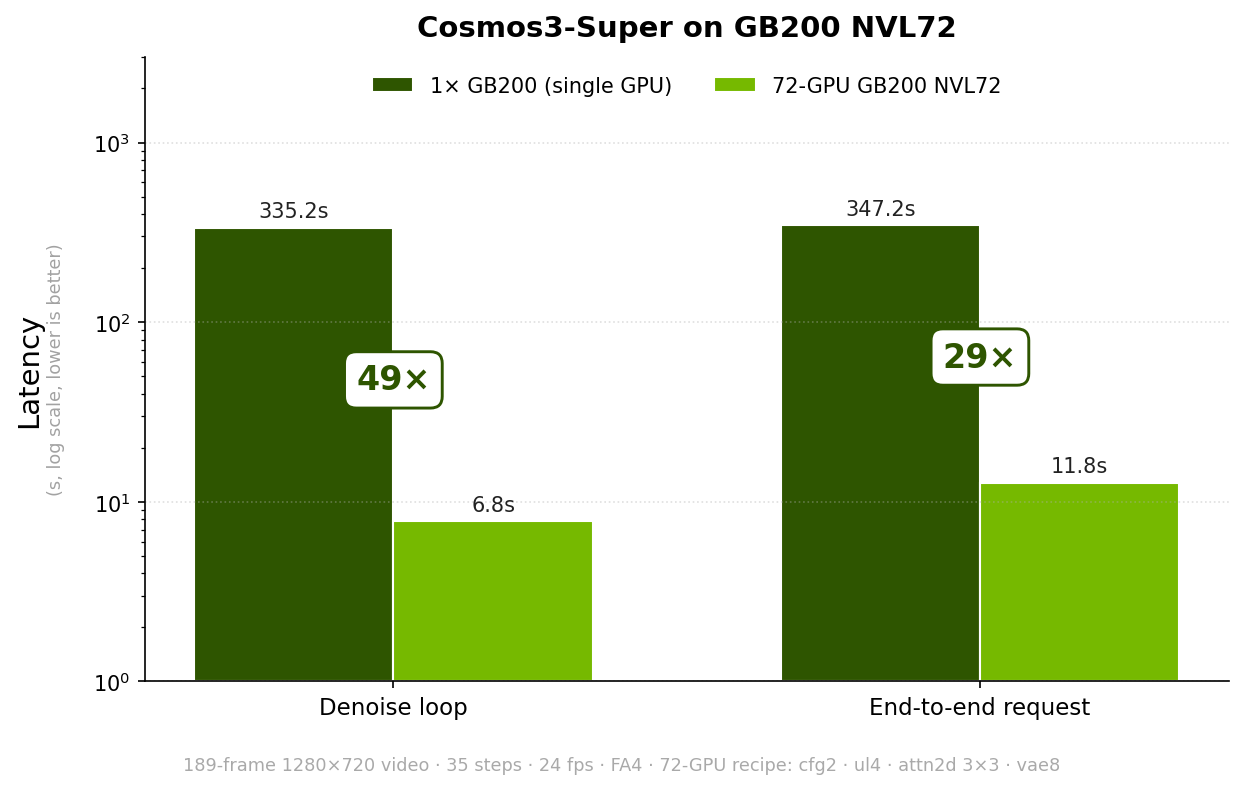
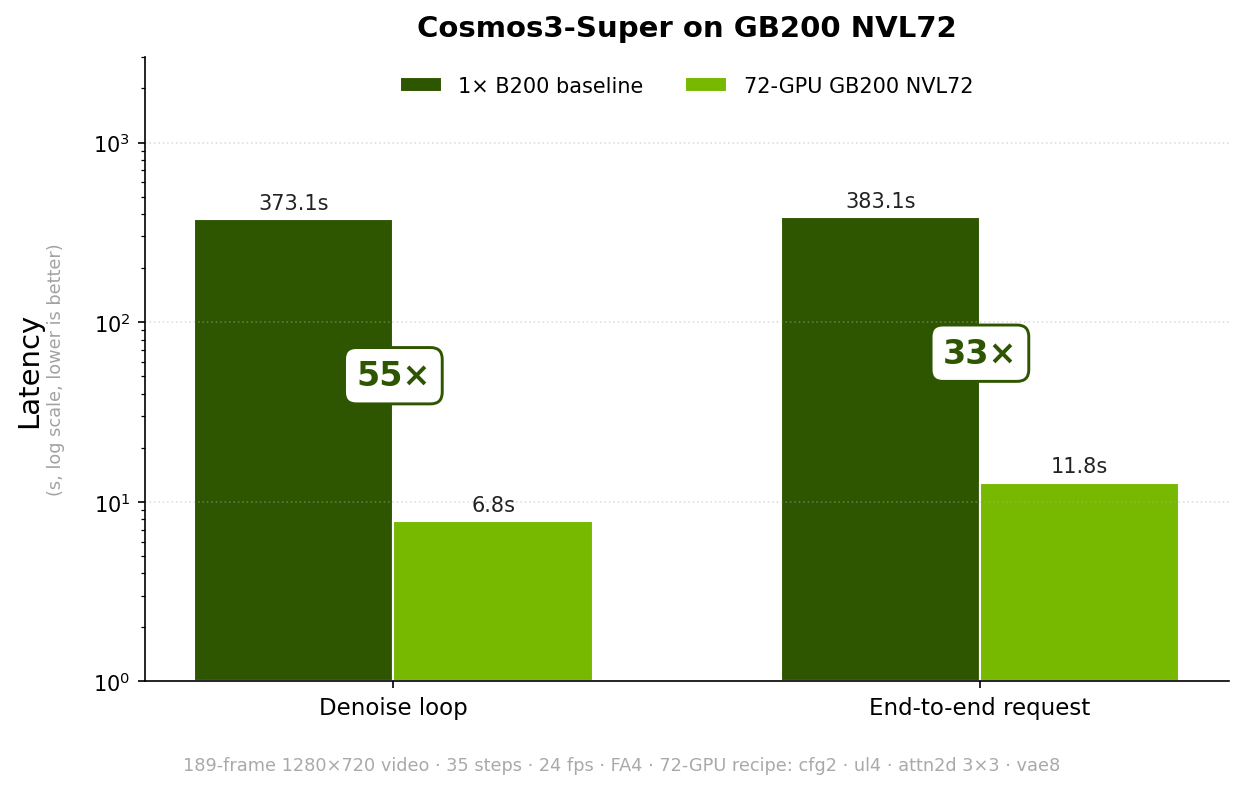
use 1 b200 baseline for cosmos3 + fix

diff --git a/docs/source/blogs/tech_blog/blog25_Scaling_Video_Generation_Across_NVL72_Rack_with_TensorRT-LLM.md b/docs/source/blogs/tech_blog/blog25_Scaling_Video_Generation_Across_NVL72_Rack_with_TensorRT-LLM.md
@@ -10,14 +10,14 @@ This post describes how the `VisualGen` runtime in TensorRT-LLM scales the DiT d
 
 On Wan 2.2 T2V-A14B (a 5-second 1280×720 video, 40 steps), the `CFG=2 × Ulysses=4 × Attention2D 3×3` recipe shrinks the DiT denoising loop by **~53×** going from a single NVIDIA B200 to a full GB200 NVL72 rack - which in turn drives a **~41× end-to-end** speedup. End-to-end trails the denoise speedup because of a fixed tail that stays constant as the DiT is sharded wider, setting the floor by Amdahl's law.
 
-The same runtime carries over unchanged to Cosmos3-Super (a 64B Mixture-of-Transformers generating a 189-frame 1280×720 clip), where the identical `CFG=2 × Ulysses=4 × Attention2D 3×3` recipe delivers **~49× on the denoise loop (~29× end-to-end)** on the full GB200 NVL72 rack.
+The same runtime carries over unchanged to Cosmos3-Super (a 64B Mixture-of-Transformers generating a 189-frame 1280×720 clip), where the identical `CFG=2 × Ulysses=4 × Attention2D 3×3` recipe delivers **~55× on the denoise loop (~33× end-to-end)** on the full GB200 NVL72 rack.
 
 <p align="center">
   <img src="../media/tech_blog25_nvl72_scaling.png" alt="Wan 2.2 T2V-A14B scaling from one B200 GPU to the 72-GPU GB200 NVL72 recipe: ~53x denoise, ~41x end-to-end" width="49%">
-  <img src="../media/tech_blog25_cosmos3_highlight.png" alt="Cosmos3-Super scaling from one GB200 GPU to the full 72-GPU GB200 NVL72 recipe: ~49x denoise, ~29x end-to-end" width="49%">
+  <img src="../media/tech_blog25_cosmos3_highlight.png" alt="Cosmos3-Super scaling from one B200 GPU to the full 72-GPU GB200 NVL72 recipe: ~55x denoise, ~33x end-to-end" width="49%">
 </p>
 
-<p align="center"><sub><em>Figure 1. The same VisualGen recipe scaling two models from a single GPU to a full GB200 NVL72 rack. Left: Wan 2.2 T2V-A14B (5-second 1280×720, 40 steps) - ~53× on the DiT denoise loop, ~41× end-to-end. Right: Cosmos3-Super (189-frame 1280×720, 35 steps) under the identical `CFG=2 × Ulysses=4 × Attention2D 3×3` recipe.</em></sub></p>
+<p align="center"><sub><em>Figure 1. The same VisualGen recipe scaling two models from a single GPU to a full GB200 NVL72 rack. Left: Wan 2.2 T2V-A14B (5-second 1280×720, 40 steps). Right: Cosmos3-Super (189-frame 1280×720, 35 steps) under the identical `CFG=2 × Ulysses=4 × Attention2D 3×3` recipe.</em></sub></p>
 
 ## Table of Contents
 
@@ -363,10 +363,10 @@ The same runtime scales a very different model unchanged. Cosmos3-Super is a 64B
 
 The headline result is summarized on the right of [Figure 1](#scaling-video-generation-across-nvl72-rack-with-tensorrt-llm) at the top of the post; the underlying numbers are:
 
-| Metric | 1× GB200 baseline | 72-GPU GB200 NVL72 | Speedup |
+| Metric | 1× B200 baseline | 72-GPU GB200 NVL72 | Speedup |
 | :--- | ---: | ---: | ---: |
-| Denoise loop | 335.25s | 6.79s | 49.4× (~49×) |
-| End-to-end request | 347.18s | 11.78s | 29.5× (~29×) |
+| Denoise loop | 373.1s | 6.79s | 54.9× (~55×) |
+| End-to-end request | 383.1s | 11.78s | 32.5× (~33×) |
 
 Sweeping the best recipe at every width gives the same near-linear denoise-loop scaling as Wan:
 
@@ -393,7 +393,6 @@ sbatch -A <ACCOUNT_NAME> -p <PARTITION> -N 18 --ntasks-per-node=4 --ntasks=72 ex
 ```
 
 The script spawns `trtllm-serve` across all allocated ranks in the background, polls `http://${MASTER_ADDR}:8000/health` until 200, and then runs `tensorrt_llm.serve.scripts.benchmark_visual_gen` from rank-0 only.
-```
 
 ## Quality Evaluation
 
@@ -438,7 +437,7 @@ Against that band, parallelism is essentially free. Every parallel configuration
 
 Serving Diffusion Transformers for video generation is a different scaling problem from LLM serving: a single latency-bound request, no KV cache, and full bi-directional attention over a 70–150k-token sequence that dominates all of the tens of denoising steps. The `VisualGen` runtime in TensorRT-LLM attacks that cost by unifying four parallelism axes — CFG, Ulysses, Attention2D context parallelism, and parallel VAE — under a single PyTorch `DeviceMesh`, exposed as declarative knobs on `ParallelConfig`. All four axes work together to compress the latency: CFG splits the two guidance streams, halving per-rank compute across the CFG group (2 GPUs, ~2×). Ulysses then shards the sequence until it hits each model's head-count wall (`ulysses ≤ 8` for Wan and Cosmos3), taking the first 16 GPUs to ~14×. Context parallelism carries the DiT the rest of the way to the full rack: we use Attention2D rather than Ring Attention because its 2D row/column groups and $O(N/\sqrt{P})$ collectives hold near-linear scaling at 72 GPUs — where Ring Attention's $O(N)$ cost caps out around 64 — reaching ~49× on the denoise loop. Finally, parallel VAE scales out the decode, which becomes the bottleneck at NVL72 scale once the DiT is this small.
 
-The result is near-ideal scaling of the DiT denoising steps. On Wan 2.2 T2V-A14B, the `CFG=2 × Ulysses=4 × Attention2D 3×3` recipe shrinks the DiT denoise loop ~53× from a single B200 to a full GB200 NVL72 rack (~41× end-to-end), and the *same* recipe applies unchanged to the 64B Cosmos3-Super (~49× denoise), confirming that the sequence-length sharding pattern generalizes across very different model sizes and sequence lengths. Concretely, a video clip that once took over five minutes to generate now finishes in ~9 seconds on the full GB200 NVL72 rack — and we expect the same approach to carry over to the next generation of longer, higher-resolution video models.
+The result is near-ideal scaling of the DiT denoising steps. On Wan 2.2 T2V-A14B, the `CFG=2 × Ulysses=4 × Attention2D 3×3` recipe shrinks the DiT denoise loop ~53× from a single B200 to a full GB200 NVL72 rack (~41× end-to-end), and the *same* recipe applies unchanged to the 64B Cosmos3-Super (~55× denoise, ~33× end-to-end), confirming that the sequence-length sharding pattern generalizes across very different model sizes and sequence lengths. Concretely, a video clip that once took over five minutes to generate now finishes in ~9 seconds on the full GB200 NVL72 rack — and we expect the same approach to carry over to the next generation of longer, higher-resolution video models.
 
 ## Picking the Performant Configuration
 